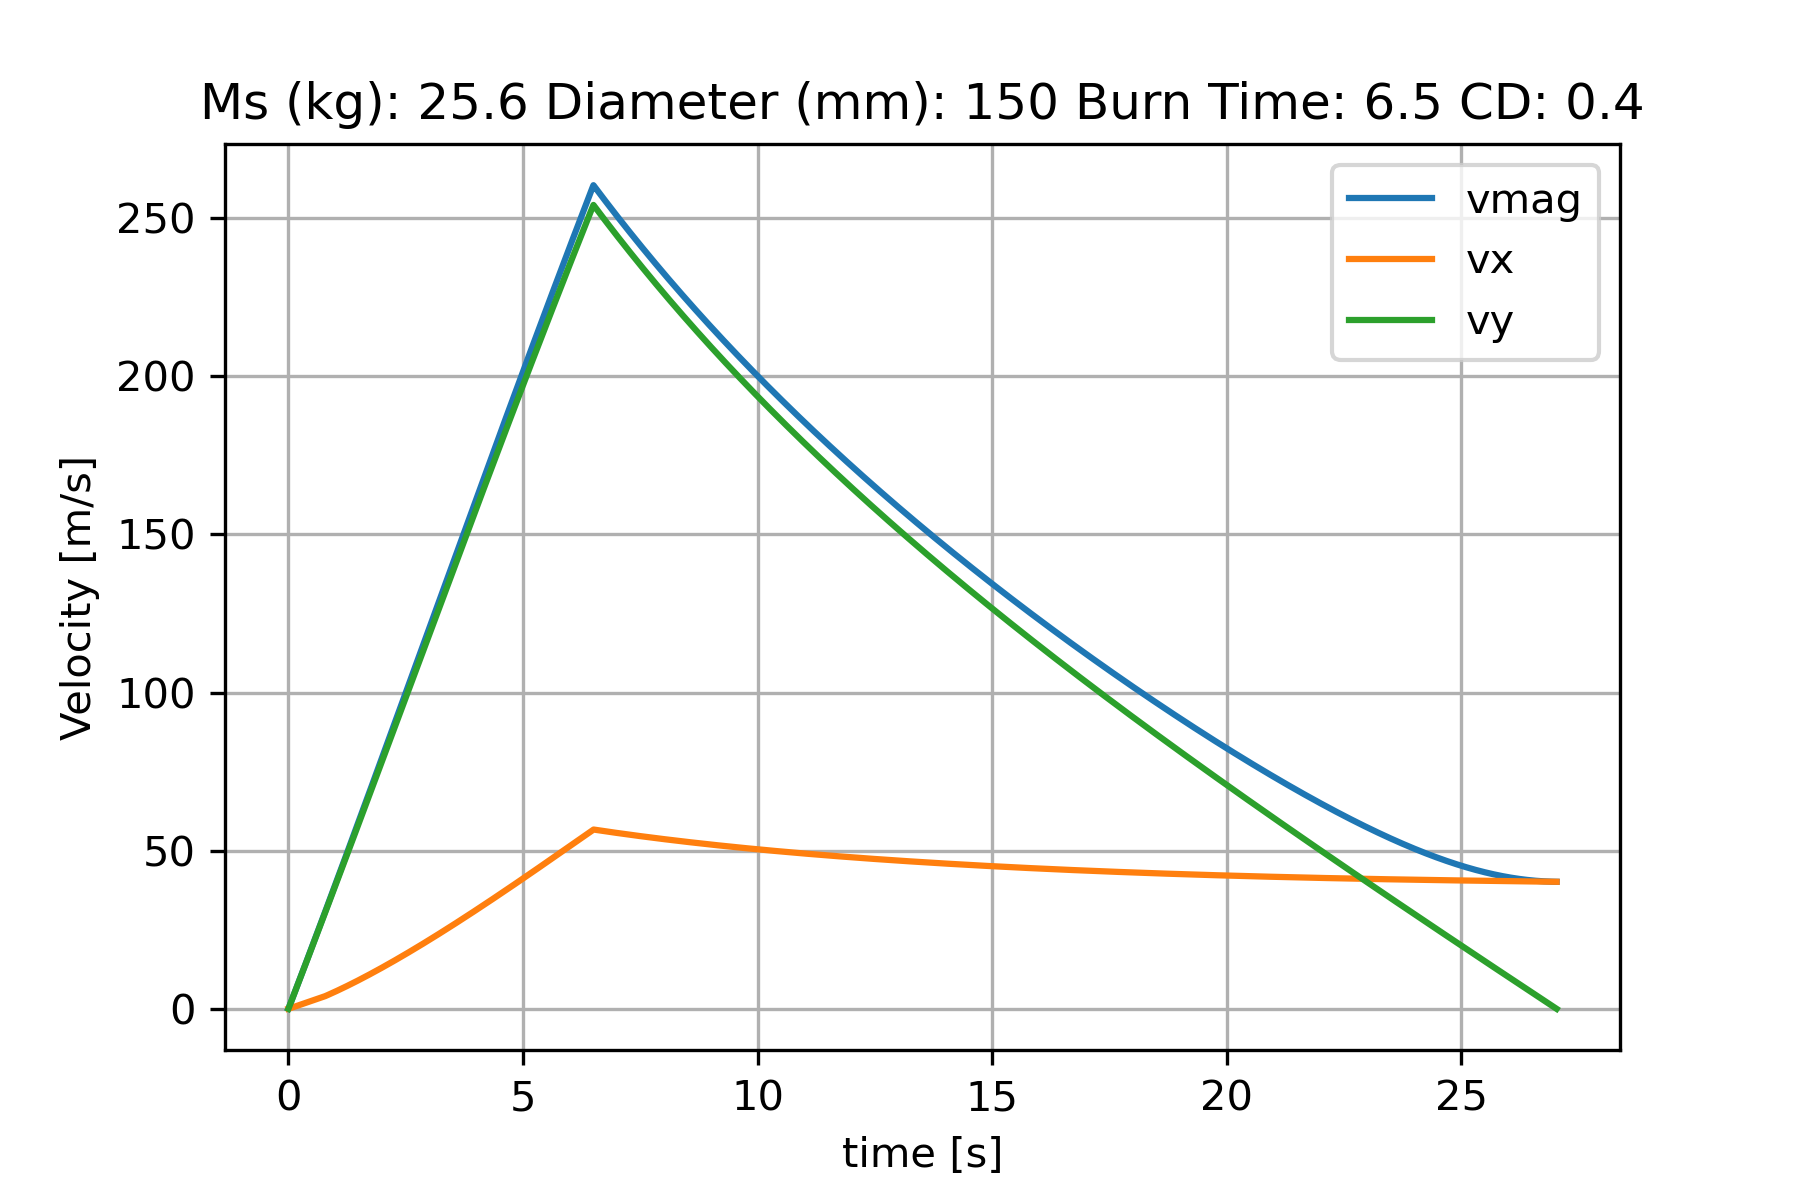
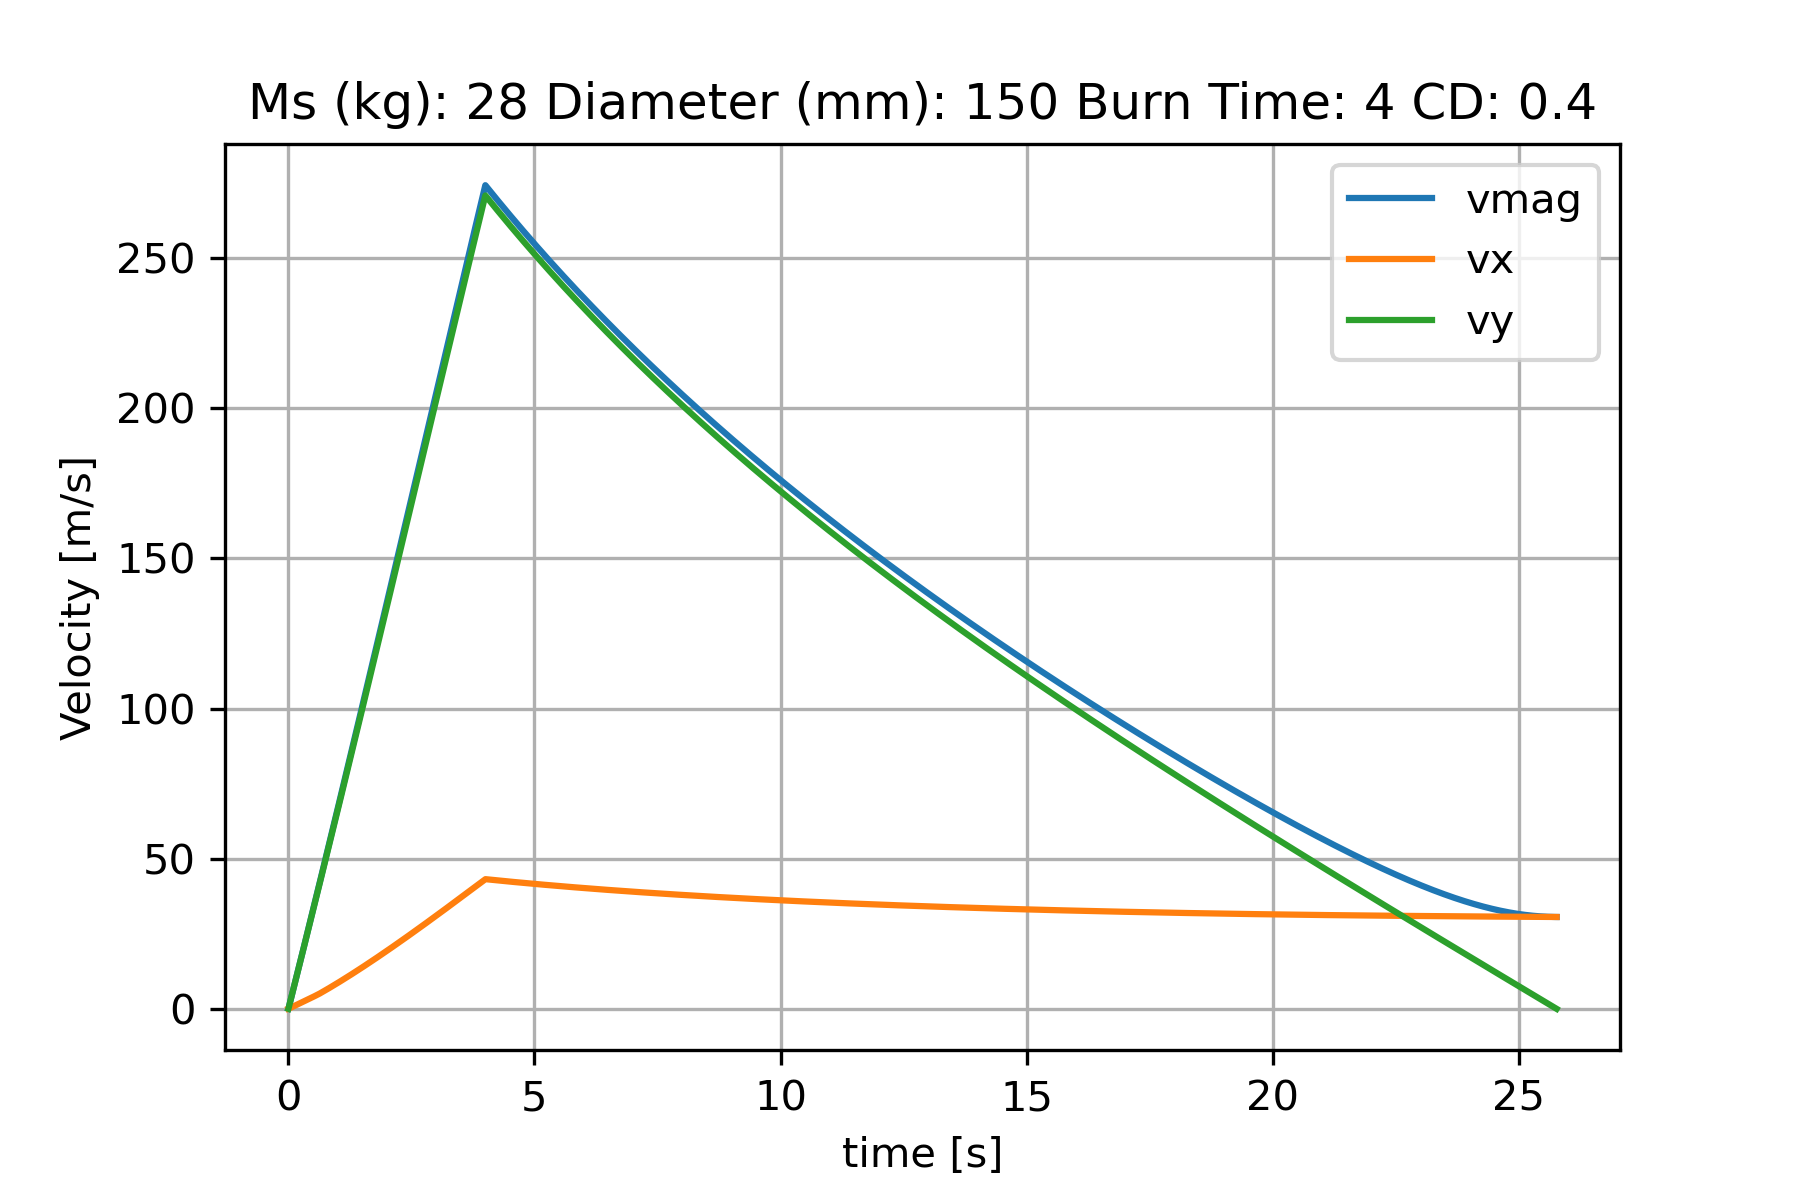
Updates in launch simulation for modified engine

diff --git a/Trajectory/LaunchSim_xy.py b/Trajectory/LaunchSim_xy.py
@@ -148,14 +148,14 @@ def solver(tb, mdot, ms, Ft, s, Cd, theta0, dt):
     return m, h, d, vx, vy, v, ax, ay, Fx, Fy, rho,theta, time
         
 """Rocket Parameters"""
-thrust = 1493   #N
-mdot = 0.797    #kg/s
-ms = 25.6         #kg
+thrust = 1500*2.5/1.5   #N
+mdot = 0.797*2.5/1.5    #kg/s
+ms = 28         #kg
 Outer_Diameter =  150 #mm (very important value to keep updated!)
 s = np.pi*((Outer_Diameter/2000)**2) 
 Cd = 0.4
 
-burn_time = 6.5 #s 
+burn_time = 4 #s 
 lanch_angle_deg = 84 #degrees from horizontal
 dt = 0.001 #time step, s
 
